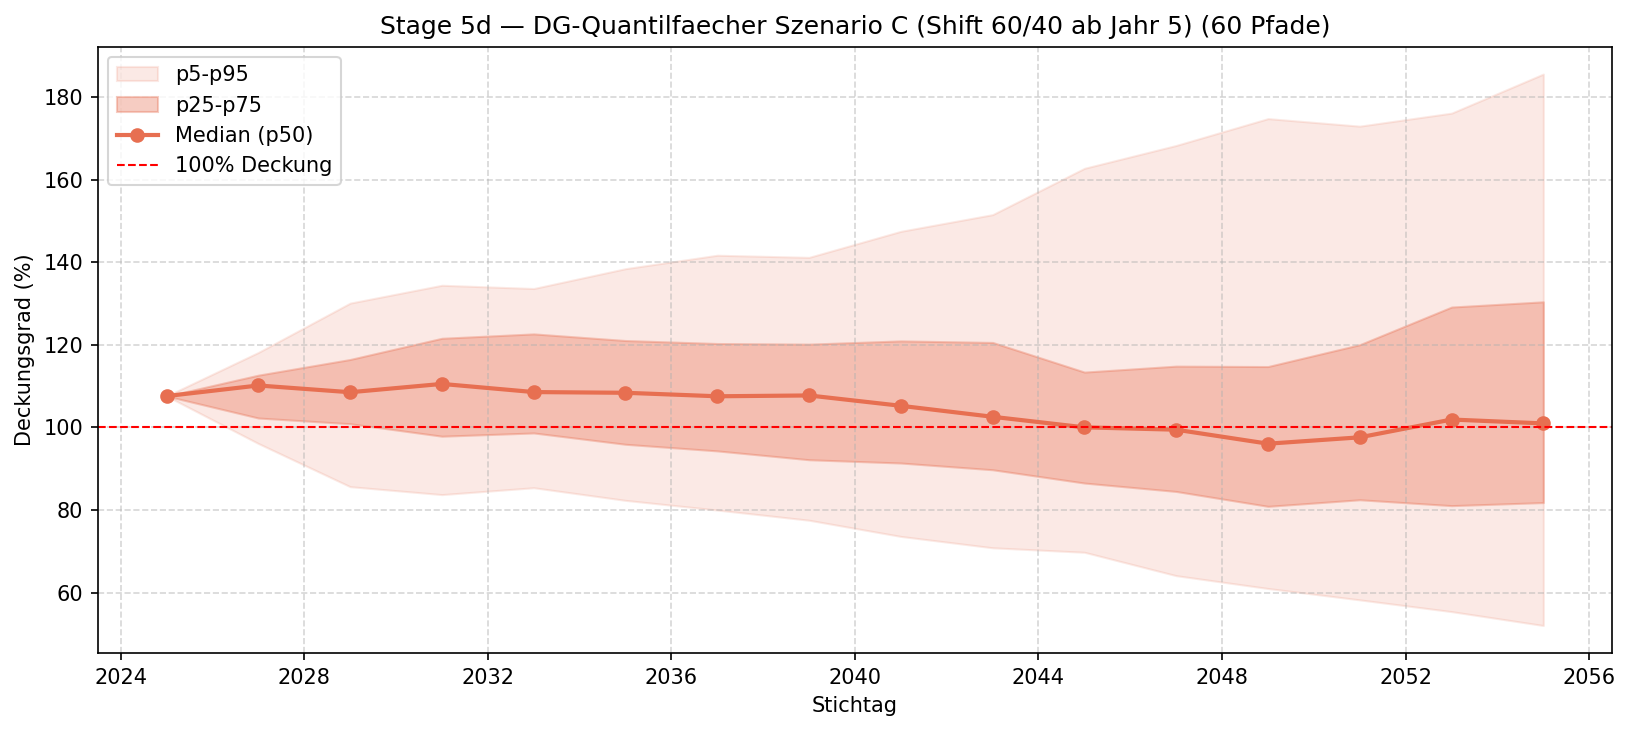
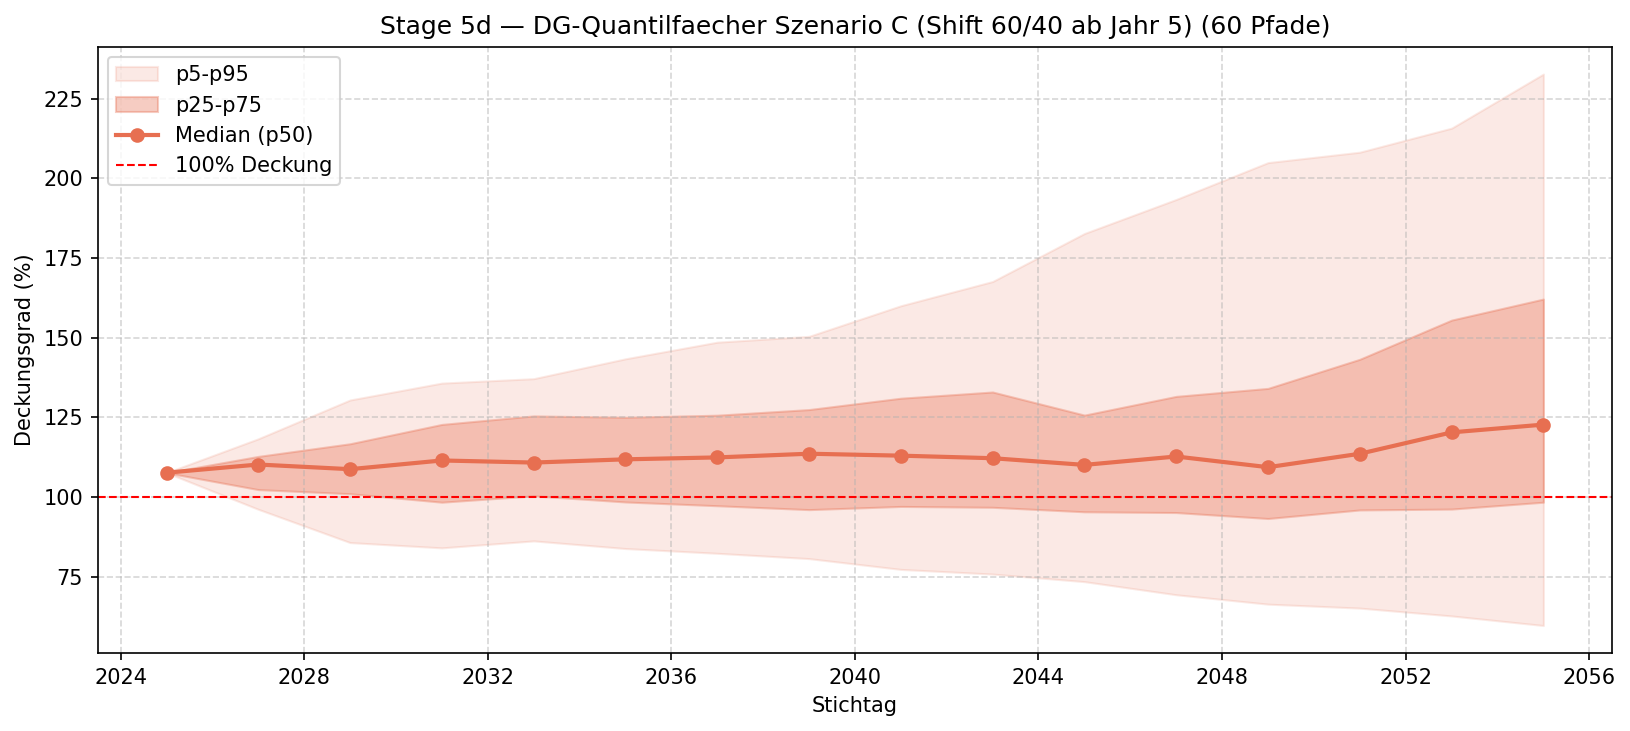
Stage 5d Baustein 2c: bond_yield auf inkrementellem BONDS-Bestand
- bond_yield: float | None = None — flacher Buch-Yield auf dem Bestand
  ueber dem Anfangsbuchwert (Positivteil, Accrual zu Fensterbeginn);
  Original-ACTUS-Coupons bleiben die Quelle fuer den Anfangsbestand
- None byte-identisch zur committeten Version (Cross-Check inkl. sigma>0,
  Shift, cost_bps, Partial-Window); 0.0 == None und Positivteil-Klemme
  als Modul-Asserts; Guard ohne RebalancingPolicy
- Quickstart B/C mit bond_yield=0.02 (Anker Complementa ~2.1%), Plots neu:
  C (De-Risking) senkt jetzt P(DG<1) unter B — Reinvestment-Nullzins-
  Verzerrung behoben

diff --git a/awesome_actus_lib/pension/analysis/going_concern.py b/awesome_actus_lib/pension/analysis/going_concern.py
@@ -42,6 +42,14 @@ Documented simplifications (spec Limitations):
   * The cash book is folded into the BONDS bucket: the ACTUS event stream
     does not separate fixed-bond from cash-account "IP" income without a
     contractId->bucket mapping, and the spec's scenarios use two buckets.
+  * BONDS income: the ORIGINAL book value earns exactly the ACTUS "IP"
+    coupons of the original contracts (run-off semantics, like 5c).
+    Rebalanced/reinvested money on top of that earns nothing by default —
+    no new ACTUS contracts are generated. ``bond_yield`` (Baustein 2c)
+    fixes this: the incremental BONDS balance ABOVE the initial book value
+    accrues a flat book yield per year (simple within the window, positive
+    part only). ``bond_yield=None`` is byte-identical to the
+    no-yield behaviour (same regression pattern as ``equity_sigma=0``).
 """
 
 from __future__ import annotations
@@ -139,9 +147,11 @@ class GoingConcernFundingRatioAnalysis(StochasticFundingRatioAnalysis):
     roll per path (order per year, spec section "Per-Pfad-Roll"):
 
       1. accrue per bucket — BONDS gets the period's ACTUS "IP" coupons
-         (per-path events, same filter as 5c), EQUITY grows at the
-         book-value drift ``equity_return`` (with ``equity_sigma > 0``:
-         seeded lognormal annual returns per path, see module docstring);
+         (per-path events, same filter as 5c) plus, with ``bond_yield``,
+         a flat book yield on the incremental balance above the initial
+         book value; EQUITY grows at the book-value drift
+         ``equity_return`` (with ``equity_sigma > 0``: seeded lognormal
+         annual returns per path, see module docstring);
       2. net liability cashflows of the paired ``LiabilityPath`` (excl.
          ``RISK_CONTRIB`` — Mai-Fix nicht regressieren) are added/withdrawn
          proportionally to the current weights;
@@ -170,6 +180,7 @@ class GoingConcernFundingRatioAnalysis(StochasticFundingRatioAnalysis):
         equity_return: float = 0.03,
         equity_sigma: float = 0.0,
         equity_seed: Optional[int] = None,
+        bond_yield: Optional[float] = None,
         initial_weights: Optional[Dict[str, float]] = None,
     ):
         if sanierung is not None:
@@ -190,6 +201,12 @@ class GoingConcernFundingRatioAnalysis(StochasticFundingRatioAnalysis):
                 "with rebalancing=None the 5c delegation ignores it, which "
                 "would silently drop the requested equity volatility."
             )
+        if bond_yield is not None and rebalancing is None:
+            raise ValueError(
+                "bond_yield requires an active RebalancingPolicy; with "
+                "rebalancing=None there is no incremental BONDS balance "
+                "to accrue it on."
+            )
         if initial_weights is not None:
             _validate_weights(initial_weights, "initial_weights")
         super().__init__(
@@ -206,6 +223,7 @@ class GoingConcernFundingRatioAnalysis(StochasticFundingRatioAnalysis):
         self.equity_return = float(equity_return)
         self.equity_sigma = float(equity_sigma)
         self.equity_seed = equity_seed
+        self.bond_yield = None if bond_yield is None else float(bond_yield)
         self.initial_weights = initial_weights
 
         # Per-path flow arrays parsed once (the roll re-reads them per
@@ -361,6 +379,7 @@ class GoingConcernFundingRatioAnalysis(StochasticFundingRatioAnalysis):
             grid.append((as_of_ts, None))
 
         buckets = self._bucket_init()
+        bonds_book_0 = buckets[BONDS]
         log: List[dict] = []
         t_prev = base_ts
 
@@ -370,6 +389,14 @@ class GoingConcernFundingRatioAnalysis(StochasticFundingRatioAnalysis):
                 (t_cur - t_prev).days / 365.25
             )
             buckets[EQUITY] *= self._equity_growth(path_i, k_cur, year_frac)
+            if self.bond_yield is not None:
+                # Baustein 2c: flat book yield on the incremental BONDS
+                # balance above the initial book value, on the position
+                # held over the window (start-of-window balance). The
+                # original book value keeps earning the ACTUS coupons only.
+                incremental = buckets[BONDS] - bonds_book_0
+                if incremental > 0.0:
+                    buckets[BONDS] += self.bond_yield * incremental * year_frac
             buckets[BONDS] += self._window_bond_income(path_i, t_prev, t_cur)
 
             # 2. net liability flows, proportional to current weights
@@ -616,6 +643,50 @@ def _regression_check_against_5c() -> None:
     print("  [OK] equity_sigma=0.10 — lognormal per path, "
           "SeedSequence-reproduzierbar, seed-sensitiv")
 
+    # ---- bond_yield: None/0.0 no-op; Positivteil-Klemme; >0 wirkt monoton --
+    # With pol_b the 40% BONDS target sits far below the 80% start book
+    # (240M of 300M), so the bucket never exceeds the initial book value
+    # and the positive-part clamp must make bond_yield a no-op:
+    gc_clamp = GoingConcernFundingRatioAnalysis(
+        salm_stub, **kwargs, rebalancing=pol_b, bond_yield=0.02,
+    )
+    np.testing.assert_array_equal(
+        gc_clamp.funding_ratio_distribution(d_late),
+        gc_b.funding_ratio_distribution(d_late),
+        err_msg="bucket below initial book: positive-part clamp must "
+                "make bond_yield a no-op",
+    )
+    # With an 80/20 target the bucket stays at/above the start book and
+    # grows past it via reinvested net inflows — the yield must bite:
+    pol_hi = RebalancingPolicy(target_weights={BONDS: 0.80, EQUITY: 0.20})
+    gc_hiN = GoingConcernFundingRatioAnalysis(
+        salm_stub, **kwargs, rebalancing=pol_hi,
+    )
+    gc_hi0 = GoingConcernFundingRatioAnalysis(
+        salm_stub, **kwargs, rebalancing=pol_hi, bond_yield=0.0,
+    )
+    for d in dates:
+        np.testing.assert_array_equal(
+            gc_hi0.funding_ratio_distribution(d),
+            gc_hiN.funding_ratio_distribution(d),
+            err_msg=f"bond_yield=0.0 must match bond_yield=None at {d}",
+        )
+    gc_hi = GoingConcernFundingRatioAnalysis(
+        salm_stub, **kwargs, rebalancing=pol_hi, bond_yield=0.02,
+    )
+    dist_hi = gc_hi.funding_ratio_distribution(d_late)
+    dist_h0 = gc_hiN.funding_ratio_distribution(d_late)
+    assert not np.array_equal(dist_hi, dist_h0), (
+        "bond_yield=0.02 must change the DG distribution once the bucket "
+        "exceeds the initial book value"
+    )
+    assert np.all(dist_hi >= dist_h0 - 1e-15), (
+        "bond_yield > 0 with positive-part incremental balance can only "
+        "add assets — DG must be pointwise >= the no-yield case"
+    )
+    print("  [OK] bond_yield — None/0.0 identisch, Positivteil-Klemme greift, "
+          f"0.02 wirkt pointwise >= (max dDG = {float(np.max(dist_hi - dist_h0)):.4%})")
+
     # ---- guards -----------------------------------------------------------
     try:
         GoingConcernFundingRatioAnalysis(salm_stub, **kwargs, sanierung=object())
@@ -630,6 +701,13 @@ def _regression_check_against_5c() -> None:
         print("  [OK] equity_sigma > 0 ohne RebalancingPolicy raises ValueError")
     else:
         raise AssertionError("equity_sigma>0 without rebalancing must raise")
+
+    try:
+        GoingConcernFundingRatioAnalysis(salm_stub, **kwargs, bond_yield=0.02)
+    except ValueError:
+        print("  [OK] bond_yield ohne RebalancingPolicy raises ValueError")
+    else:
+        raise AssertionError("bond_yield without rebalancing must raise")
 
     try:
         RebalancingPolicy(target_weights={BONDS: 0.50, EQUITY: 0.60})

diff --git a/awesome_actus_lib/pension/examples/Stage5d_going_concern_quickstart.py b/awesome_actus_lib/pension/examples/Stage5d_going_concern_quickstart.py
@@ -4,7 +4,8 @@ Stage 5d (Baustein 2) — Allokations-Shift-Experiment auf dem going-concern
 Asset-Roll (Spec: docs/stage5d_going_concern_spec.md):
 
   A  Legacy 5c: kein Reinvestment, Buy-and-hold (Referenz / Regression)
-  B  Reinvest + Fixed-Mix 40% BONDS / 60% EQUITY, jaehrlich, equity_sigma=0.10
+  B  Reinvest + Fixed-Mix 40% BONDS / 60% EQUITY, jaehrlich, equity_sigma=0.10,
+     bond_yield=0.02 auf dem inkrementellen BONDS-Bestand (Baustein 2c)
   C  wie B, Shift auf 60/40 ab Jahr 5 ("mortgage->bonds"-Beispiel)
 
 Kalibrierung per Spec: Stage-4-Bestand (8 aktive Kohorten + RETIRED_1955,
@@ -53,6 +54,10 @@ SEED_EQ = 777
 # Reinvestment + Rebalancing isoliert und nicht Return-Annahmen.
 EQ_RETURN = 0.03
 EQ_SIGMA = 0.10
+# Buch-Yield auf dem inkrementellen BONDS-Bestand ueber dem Anfangsbuchwert
+# (Baustein 2c). Anker: Complementa-Ertragsrendite ~2.1%. Der urspruengliche
+# Buchwert verdient weiterhin nur die ACTUS-Coupons der Originalkontrakte.
+BOND_YIELD = 0.02
 
 _REPO_ROOT = os.path.abspath(os.path.join(os.path.dirname(__file__), "..", "..", ".."))
 OUT_DIR = os.path.join(_REPO_ROOT, "output", "stage_5d")
@@ -268,6 +273,7 @@ scen_B = GoingConcernFundingRatioAnalysis(
     equity_return=EQ_RETURN,
     equity_sigma=EQ_SIGMA,
     equity_seed=SEED_EQ,
+    bond_yield=BOND_YIELD,
 )
 
 scen_C = GoingConcernFundingRatioAnalysis(
@@ -280,6 +286,7 @@ scen_C = GoingConcernFundingRatioAnalysis(
     equity_return=EQ_RETURN,
     equity_sigma=EQ_SIGMA,
     equity_seed=SEED_EQ,
+    bond_yield=BOND_YIELD,
 )
 
 scenarios = {
